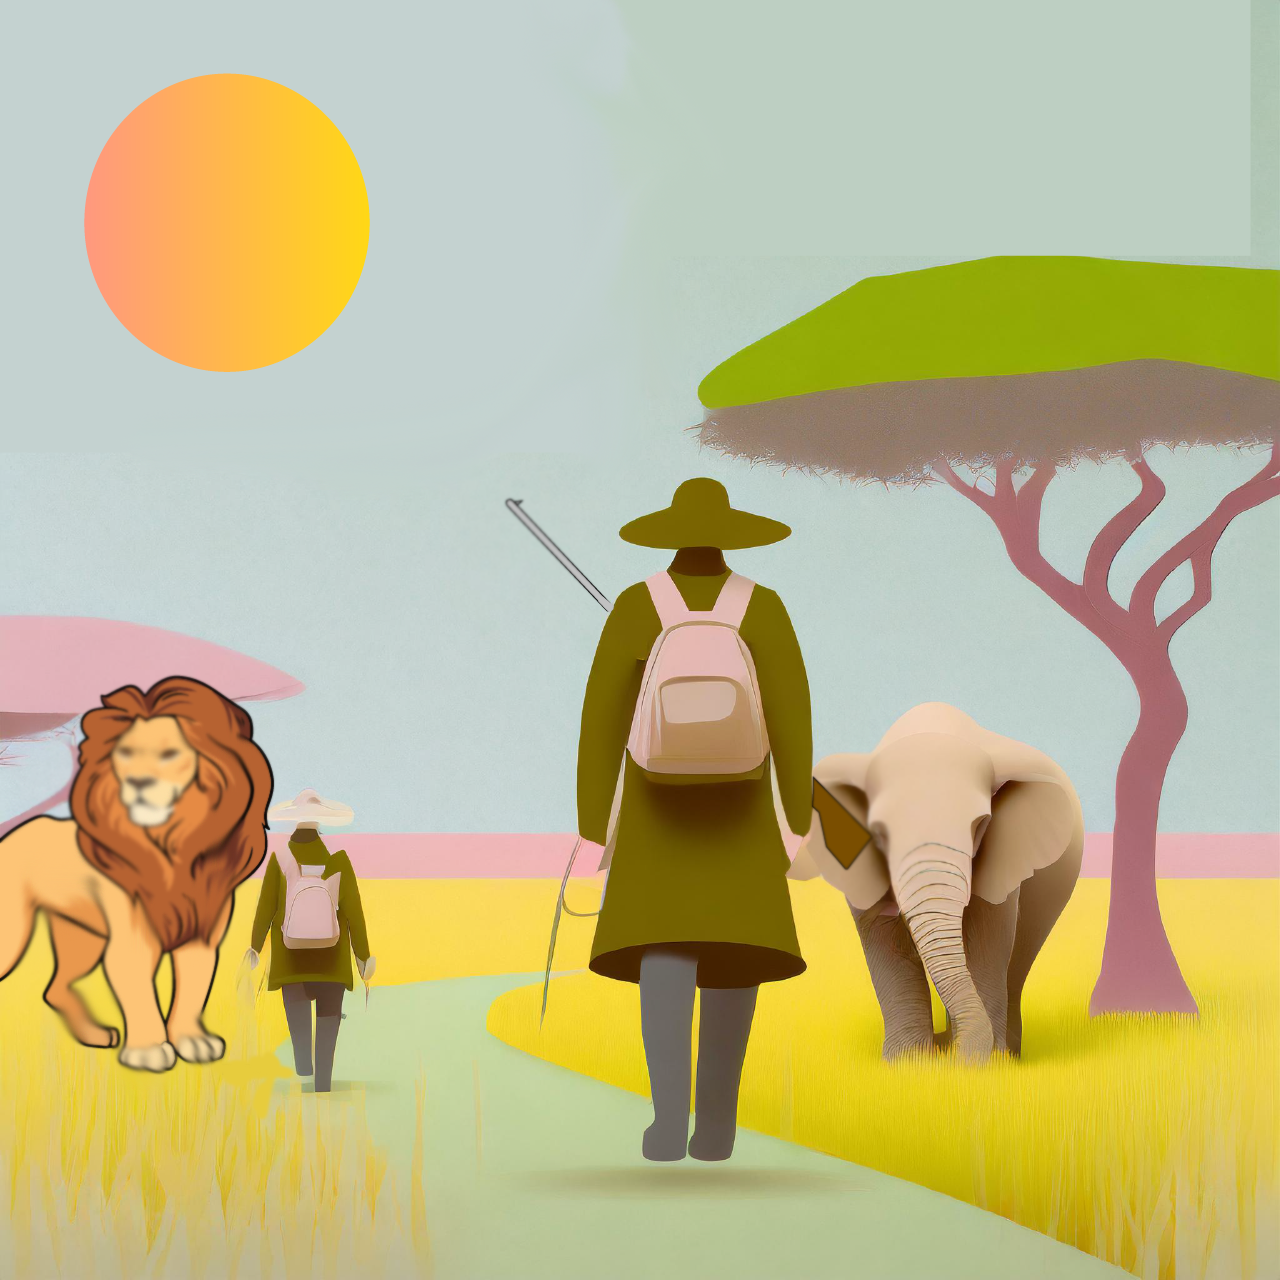
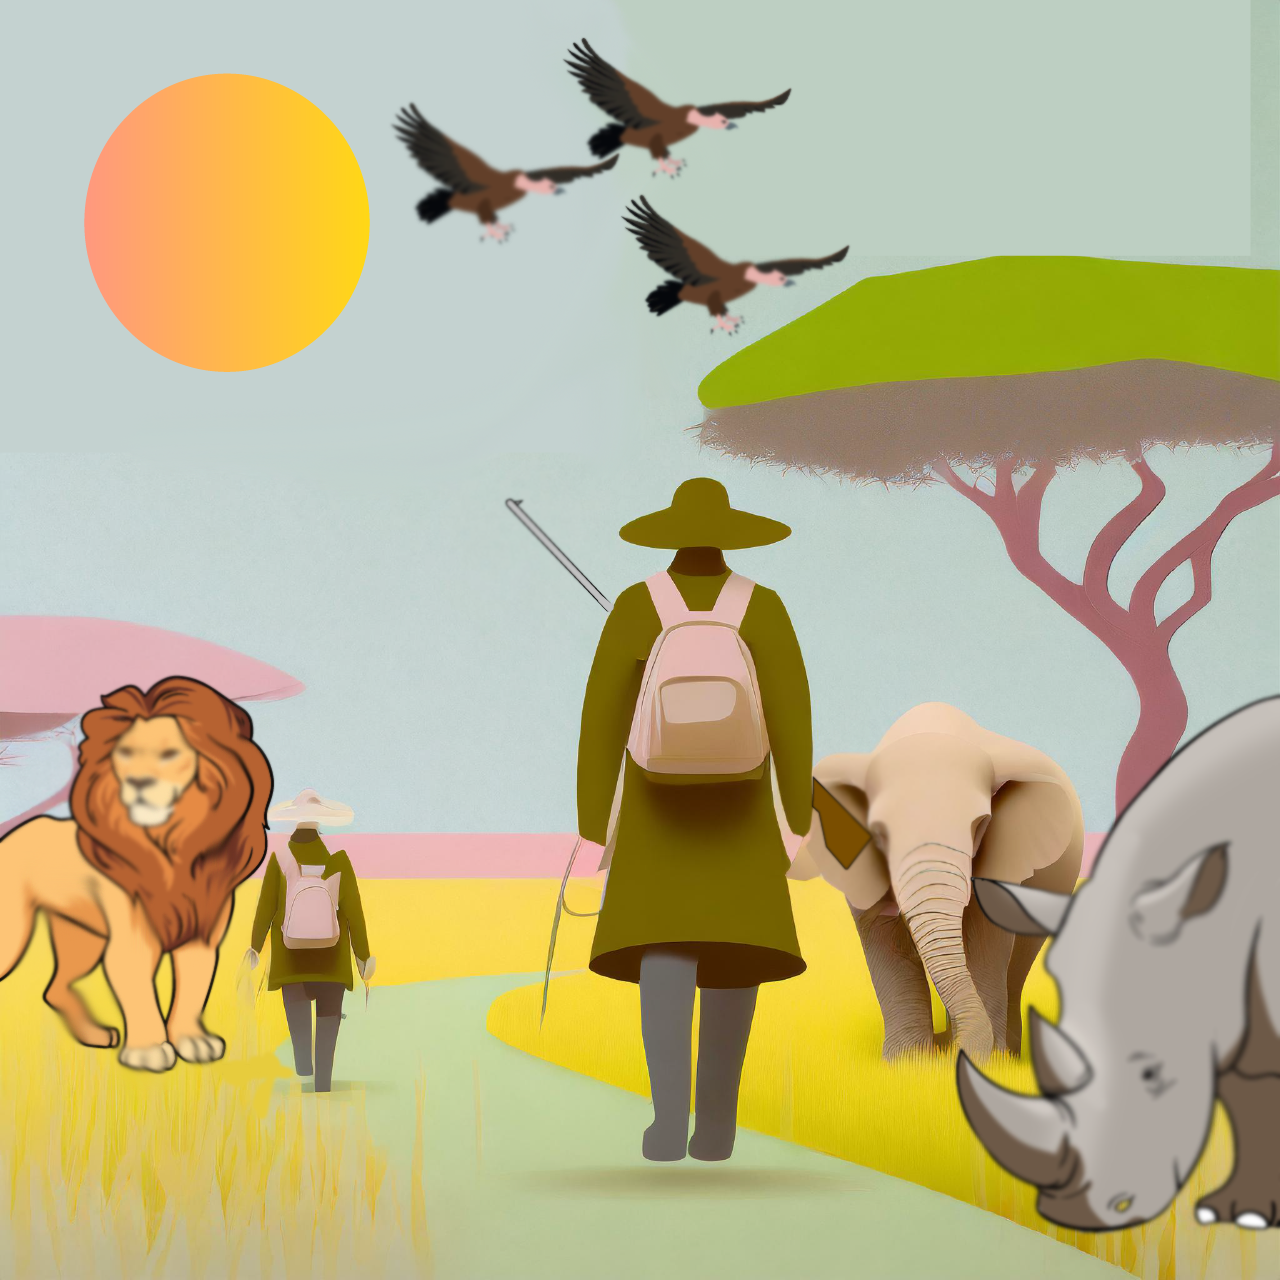
Done

Changed region(s): [[0.75, 0.5312, 1.0, 0.9688], [0.3125, 0.0312, 0.6562, 0.2812]]

diff --git a/index.html b/index.html
@@ -36,7 +36,7 @@
             <div class="tekst">
                 <h2 class="Hfade-in">Savannen</h2>
                 <p class="fade-in">
-                    Lorem ipsum dolor sit amet consectetur, adipisicing elit. Veritatis numquam minima corporis rerum eos pariatur voluptatem nisi ipsa placeat laborum dignissimos distinctio cumque sed nulla, in mollitia libero eius officia!
+                    Krypskyttere og jakt, er den største trusselen til savannen. De jakter blandt annet løver, neshorn og elefanter. Jakta har droppa populasjonen til disse dyrene så mye at de har kommet på rødlista.
                 </p>
             </div>
             <div class="bilde savanne-img Hfade-in">

diff --git a/style.css b/style.css
@@ -48,7 +48,9 @@ a {
 }
 
 .bilde {
-    flex: 1;
+    flex: none;
+    width: 60%;
+    height: auto;
     padding: 20px;
 }
 
@@ -84,8 +86,17 @@ h2, p {
     border: 2px solid #FF9800;
 }
 
-.savanne-img{
-    margin-left: 110px;
+.bilde.savanne-img{
+    margin: 0 auto;
+    width: 680px;
+    max-width: none;
+    height: auto;
+    padding: 20px; 
+    text-align: center;
+}
+
+.bilde.bilde.savanne-img img{
+    width: 100%;
 }
 
 
